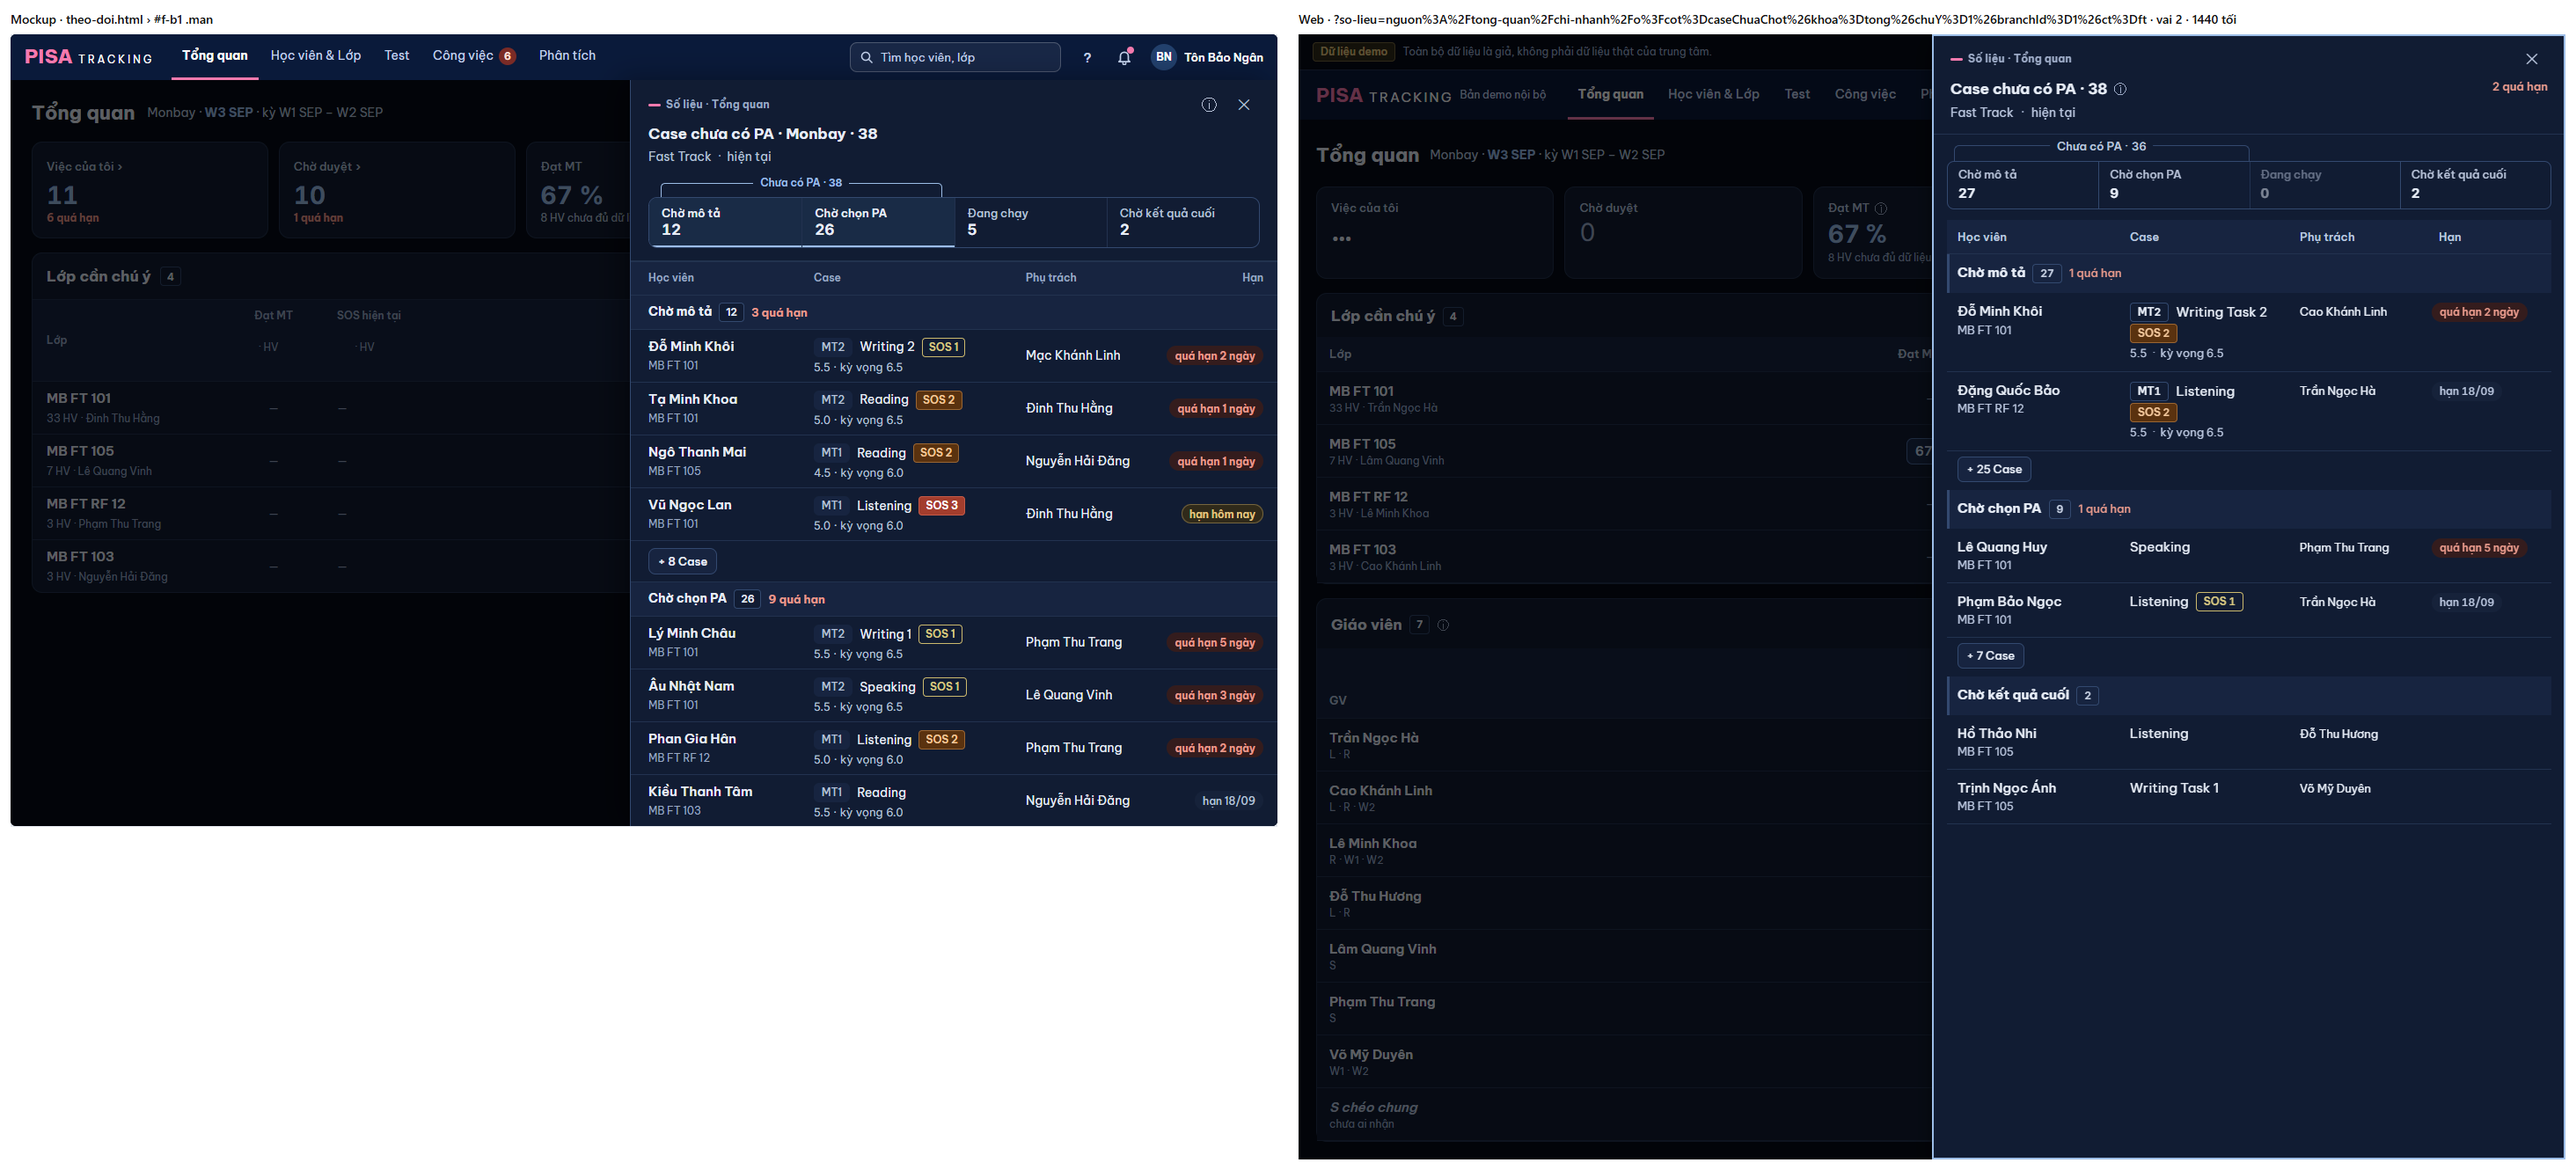
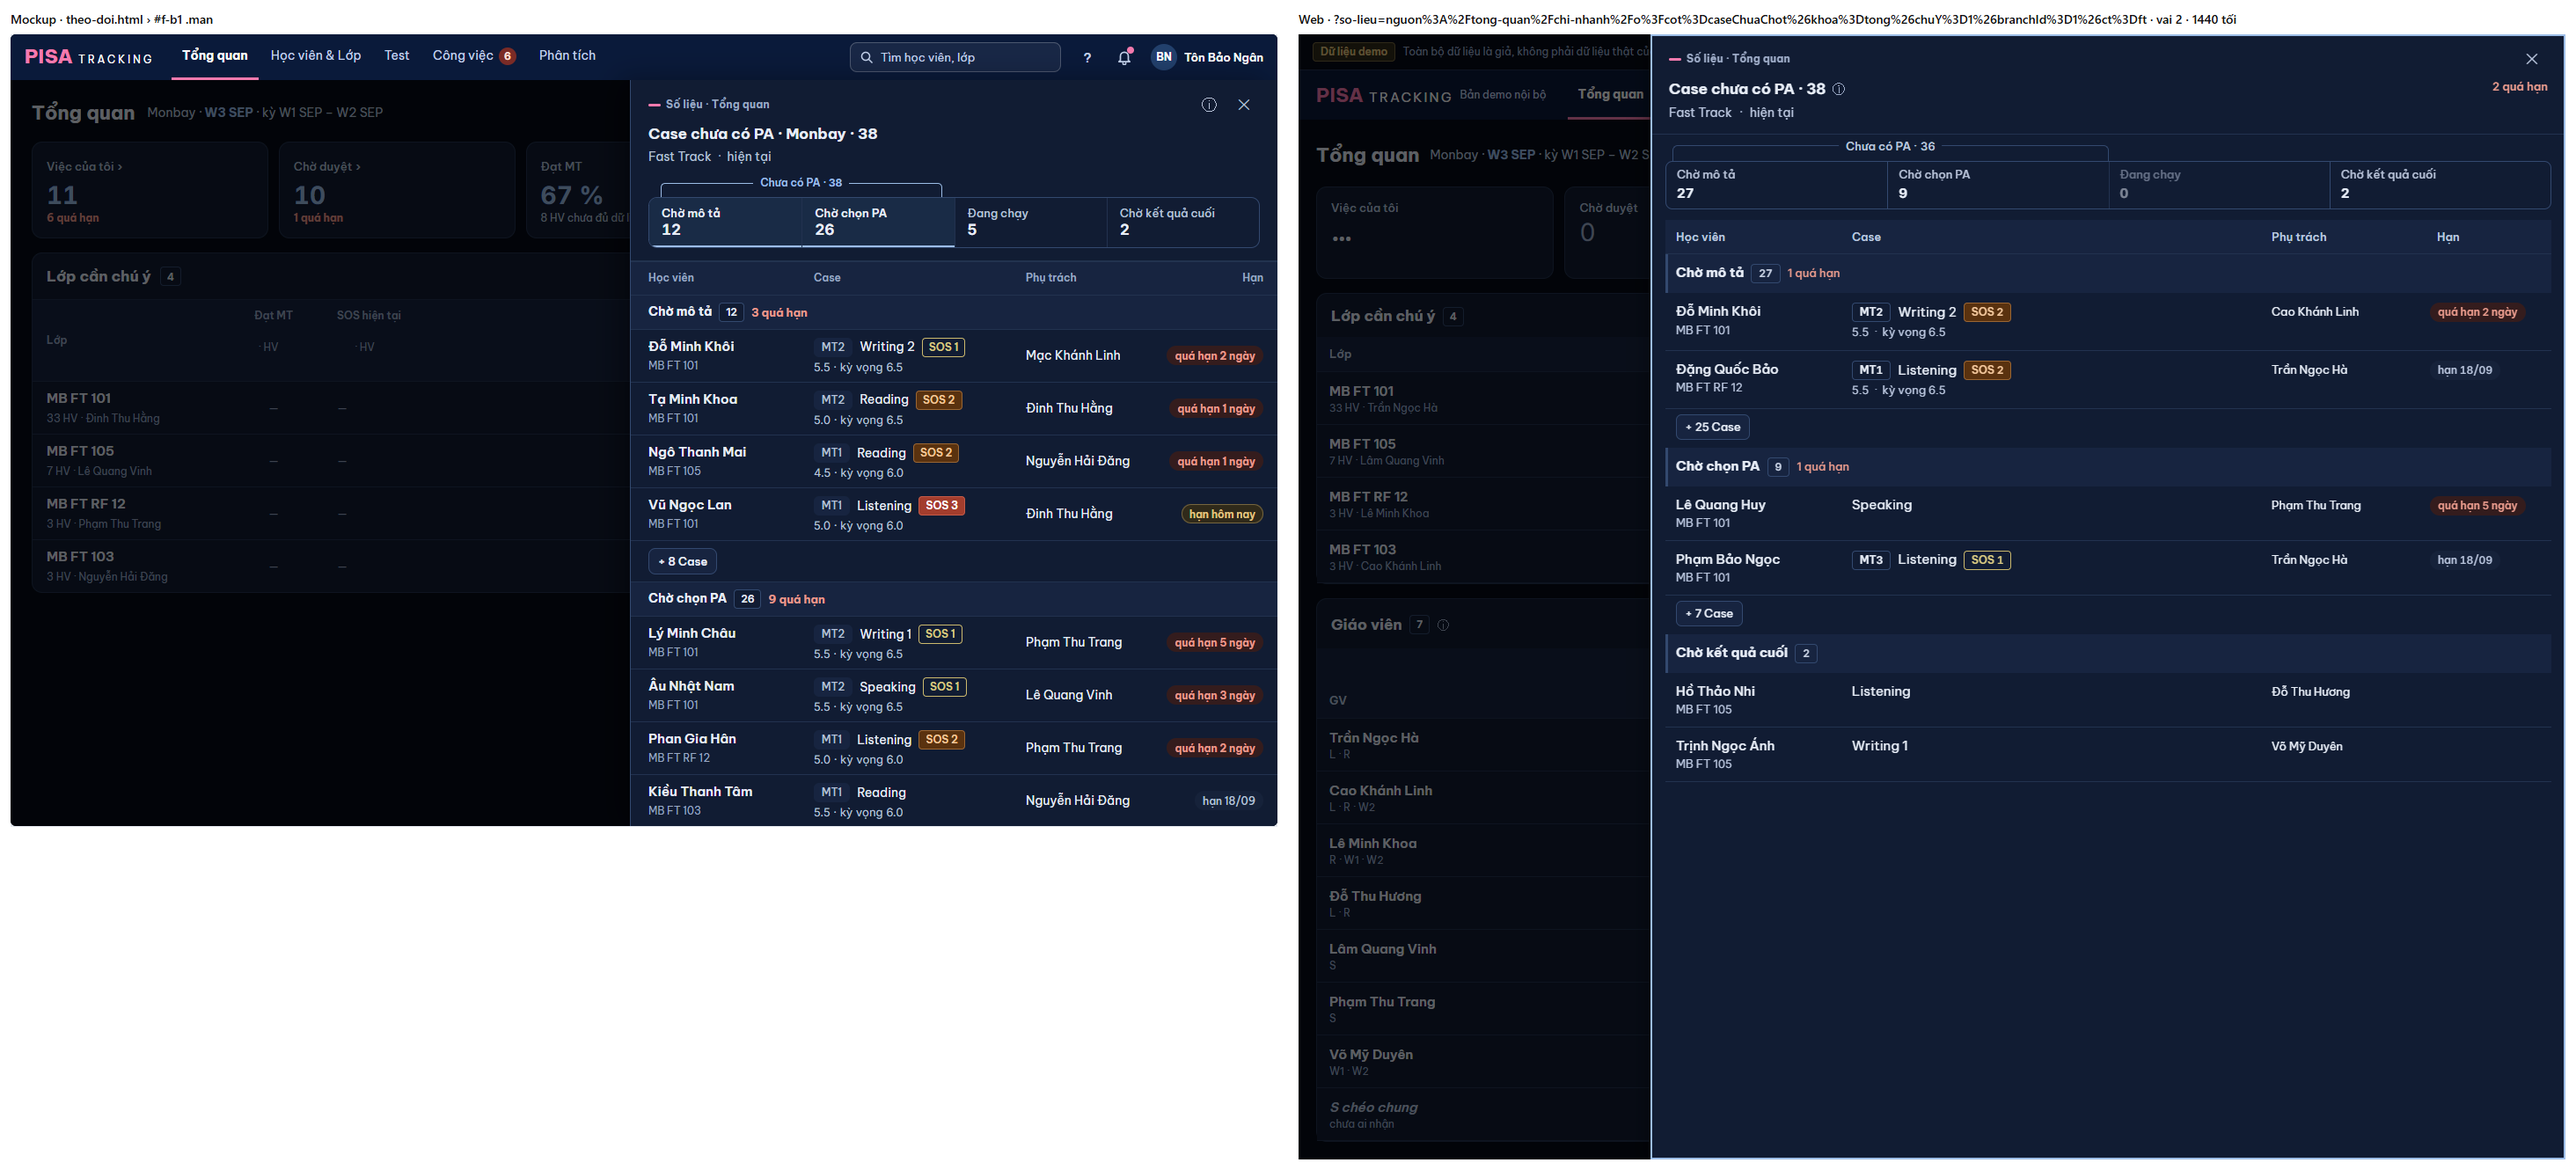
GD-21: panel Case rộng 1040 (không cắt môn), khuôn cột Case một dòng MTn · kỹ năng · SOS, ảnh cặp B1 / B6

diff --git a/web/src/ui/SoLieu.tsx b/web/src/ui/SoLieu.tsx
@@ -61,6 +61,7 @@ export type DongSoLieu = {
   buoc?: BuocCase | null;
   /** GD-21: kỹ năng của Case (cột Case chỉ ghi kỹ năng). */
   kyNang?: string | null;
+  luot?: string | null;
   /** 6c-2 (#632 XM-1): dòng Case — điểm kỹ năng ở lượt mở Case (máy chủ `rowsFor('case')`). */
   diemCase?: { so: number; kyVong: number | null; luot: string | null; nhan?: string | null } | null;
   /** UI-HO-SO-GV: dòng kết quả — mốc so, kết luận (tab Chưa đạt · Đạt · Vượt). Điểm từng kỹ năng nay ở `diemHv` (PANEL-MC). */
@@ -221,8 +222,8 @@ const LamDongSoLieu = lazyTai(() => import('../modules/worklist/LamDongSoLieu.ts
 /** GD-21: hàng của bảng Case theo bước — dải nhóm (bước) hoặc một Case. */
 type HangCase = { k: string; ten: string; conCho: number; tre: number } | { k: string; r: DongSoLieu & { xong?: string } } | { k: string; them: number; nhom: string };
 const COT_CASE: readonly CotBang[] = [
-  { key: 'hv', nhan: t('Học viên'), kieu: 'ten', rong: 196 }, { key: 'case', nhan: t('Case'), kieu: 'chu', linhHoat: true },
-  { key: 'gv', nhan: t('Phụ trách'), kieu: 'chu', rong: 150 }, { key: 'han', nhan: t('Hạn'), kieu: 'chip', rong: 148 },
+  { key: 'hv', nhan: t('Học viên'), kieu: 'ten', rong: 200 }, { key: 'case', nhan: t('Case'), kieu: 'chu', linhHoat: true },
+  { key: 'gv', nhan: t('Phụ trách'), kieu: 'chu', rong: 180 }, { key: 'han', nhan: t('Hạn'), kieu: 'chip', rong: 150 },
 ];
 
 /**
@@ -413,10 +414,10 @@ export function NganDanhSach({ nguon, tieuDe, dv, data, loading, error, reload, 
       </span>
     );
     if (k === 'case') return (
-      <span className="flex min-w-0 flex-col gap-0.5">
-        <span className="flex min-w-0 flex-wrap items-center gap-x-2 gap-y-0.5">
-          {r.diemCase?.luot && <span className={CHIP_VUONG} style={{ borderColor: 'var(--line-strong)' }}>{r.diemCase.luot}</span>}
-          <span className="min-w-0">{r.kyNang ?? r.title}</span>
+      <span className="flex min-w-0 flex-col items-start gap-0.5">
+        <span className="flex min-w-0 max-w-full flex-nowrap items-center gap-x-2">
+          {(r.diemCase?.luot ?? r.luot) && <span className={`${CHIP_VUONG} shrink-0`} style={{ borderColor: 'var(--line-strong)' }}>{r.diemCase?.luot ?? r.luot}</span>}
+          <span className="min-w-0" title={r.title}>{r.kyNang ?? r.title}</span>
           {r.sos && r.sos.muc > 0 && <span className={`${CHIP_SOS} ${lopSos(r.sos.muc, r.sos.tam)}`}>SOS {r.sos.muc}{r.sos.tam ? ` ${t('tạm')}` : ''}</span>}
           {(r.nhom === 'choDuyetPa' || r.nhom === 'khongTheoDoi') && <span className={CHIP_VUONG} style={{ borderColor: 'var(--line-strong)' }} title={t('Đề xuất đổi PA chờ QL duyệt')}>{t('chờ QL')}</span>}
         </span>
@@ -581,7 +582,7 @@ export function NganDanhSach({ nguon, tieuDe, dv, data, loading, error, reload, 
   };
 
   return (
-    <KhungPanel tieuDe={tieuDe} onDong={onDong} rong={nhomCase || goc.some((r) => r.diemHv || r.xuHuong) ? 'rong' : 'hep'}
+    <KhungPanel tieuDe={tieuDe} onDong={onDong} rong={nhomCase ? 'bang' : goc.some((r) => r.diemHv || r.xuHuong) ? 'rong' : 'hep'}
       /* NEN-PANEL: không dòng nào làm được ở đây = panel báo cáo (07 mục 3). */
       loai={nhomCase ? t('Số liệu · Tổng quan') : hien.some((r) => r.viec?.lam) ? t('Việc') : t('Báo cáo · chỉ đọc')}
       dau={{

diff --git a/server/src/worklist/metrics.ts b/server/src/worklist/metrics.ts
@@ -142,6 +142,8 @@ export type MetricRow = {
   buoc?: BuocCase | null;
   /** GD-21: kỹ năng của Case (cột Case của panel theo bước chỉ ghi kỹ năng, không ghi cả tên Case). */
   kyNang?: string | null;
+  /** GD-21: lượt của Case (MT2…) — khi chưa có mốc điểm. */
+  luot?: string | null;
   /** 6c-2 (#632 XM-1): dòng Case — điểm kỹ năng ở mốc mở / lặp Case gần nhất (band, kỳ vọng lượt đó, "MT2" / "Progress Test"). */
   diemCase?: { so: number; kyVong: number | null; luot: string | null; nhan?: string | null } | null;
   /** R1-EN-2: dòng thi thật — ngày dd/mm; web ghép "Thi thật {ngay}" bằng t() thay `ngCanh`. */
@@ -239,7 +241,7 @@ export function rowsFor(unit: ChiSo['donVi'], ids: number[], metricId?: string, 
     } else if (unit === 'case') {
       const ds = conn.prepare(
         `SELECT sc.id, sc.title, COALESCE(sc.category, sc.topic) AS mon, sc.category, sc.topic, cy.programme_code AS ct, s.id AS sid, s.full_name, s.student_code,
-                sc.status, sc.detected_at, sc.urgency, sc.sos_level, sc.kck, sc.origin_kind, a.attempt_no, u.full_name AS nguoi, sc.owner_user_id,
+                sc.status, sc.detected_at, sc.urgency, sc.sos_level, sc.kck, sc.origin_kind, a.attempt_no, a.kind AS attempt_kind, u.full_name AS nguoi, sc.owner_user_id,
                 COALESCE(cur.class_id, a.class_id) AS lop_id, lc.code AS lop
            FROM sos_cases sc LEFT JOIN assessment_attempts a ON a.id = sc.attempt_id
            LEFT JOIN learning_cycles cy ON cy.id = sc.cycle_id
@@ -279,7 +281,8 @@ export function rowsFor(unit: ChiSo['donVi'], ids: number[], metricId?: string, 
           href: duongCase(r.sid, r.id), nguoi: r.nguoi ?? null, han: v?.viec?.han ?? null, nguoiId: r.owner_user_id ?? null,
           em: r.sid ? { id: r.sid, ten: r.full_name } : null, lop: r.lop ?? null, ngCanh: ten,
           viec: v?.viec ?? null, tinhTrang: v?.tinhTrang ?? null, diemCase: diemCase.get(r.id) ?? null, buoc: v?.buoc ?? null,
-          sos: r.sos_level > 0 ? { muc: r.sos_level, tam: false } : null, kyNang: r.mon ? tenMon(r.ct ?? null, r.mon) : null,
+          sos: r.sos_level > 0 ? { muc: r.sos_level, tam: false } : null, kyNang: r.mon ? tenMon(r.ct ?? null, r.mon).replace(' Task', '') : null,
+          luot: r.attempt_kind ? nhanDot(r.attempt_kind, r.attempt_no ?? null) : null,
         });
       }
     } else if (unit === 'phuong-an') {
